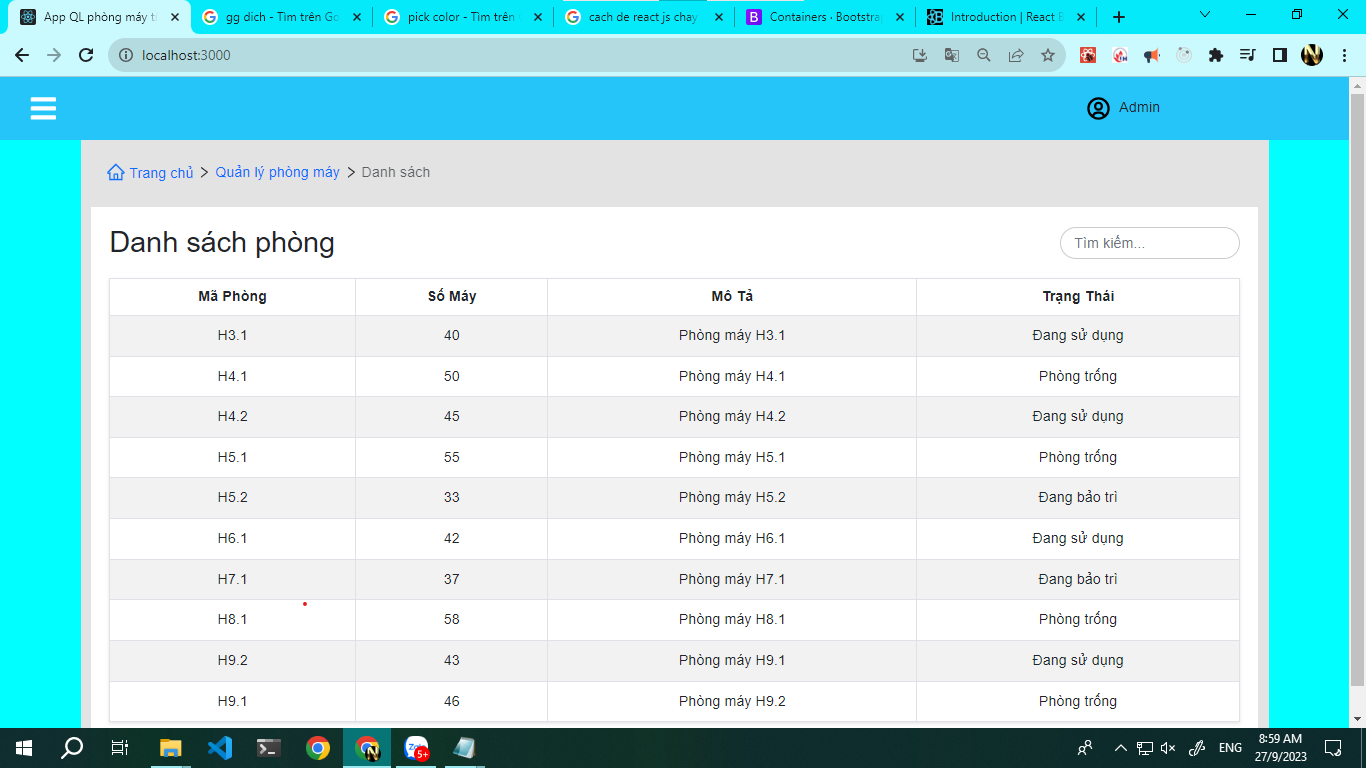
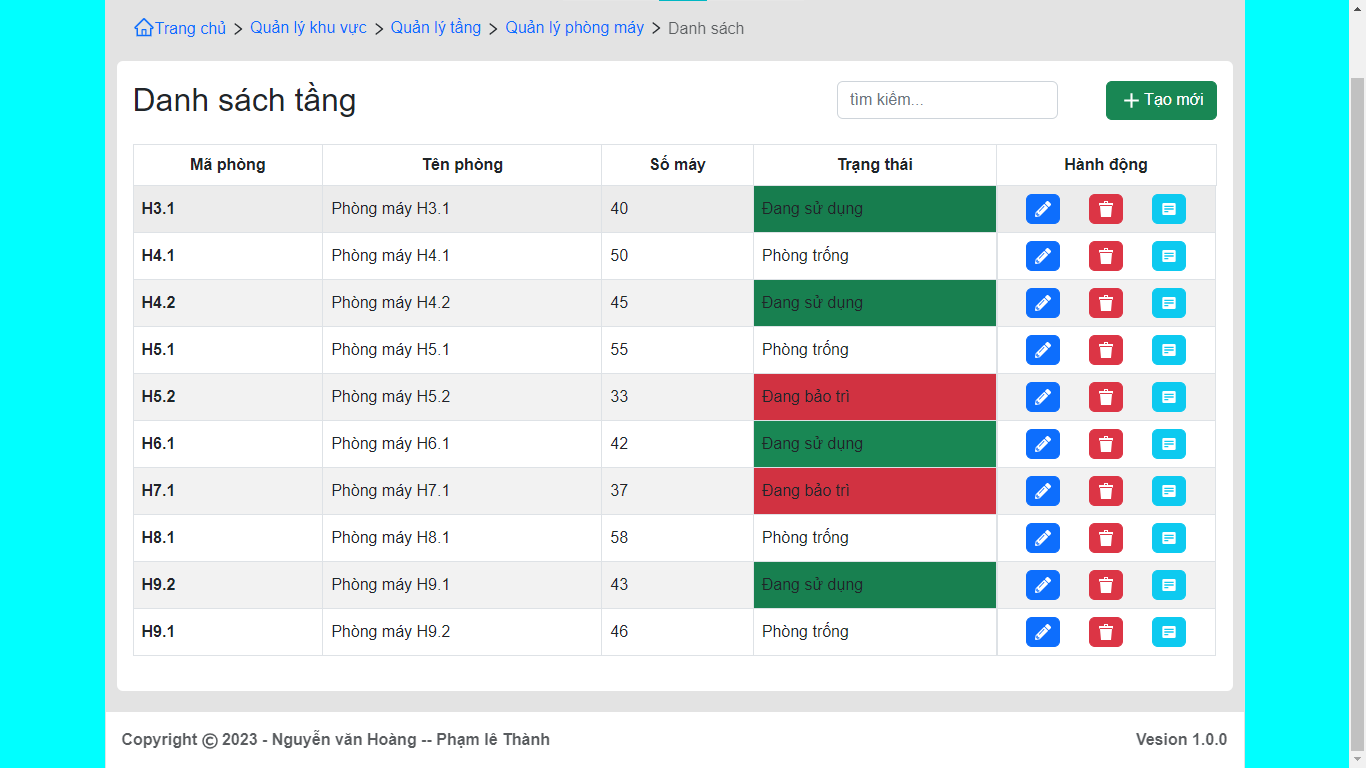
add PageQLPhongMay

diff --git a/src/pages/PageQuanLy/PageQLPhongMay.jsx b/src/pages/PageQuanLy/PageQLPhongMay.jsx
@@ -1,112 +1,200 @@
-import React, { useState } from 'react'
-import PropTypes from 'prop-types'
-import NavTab from '../../components/common/NavTab/NavTab'
-import { Table, Form } from "react-bootstrap";
-import Database from '../../util/database/Database';
+import React, { useEffect, useState } from "react";
+import { NavLink } from "react-router-dom";
+//
+import NavTab from "../../components/common/NavTab/NavTab";
+import Footer from "../../components/common/Footer/Footer";
+import Database from "../../util/database/Database";
+//
+import { FaPencilAlt } from "react-icons/fa";
+import { ImBin2 } from "react-icons/im";
+import { MdAdd } from "react-icons/md";
+import { BiSolidDetail } from "react-icons/bi";
 
 
-   // Dữ liệu danh sách phòng máy (ví dụ)
-const roomData  = Database.dataPhongMay
+
+/**
+ * giả đỉnh data tren server chua lấy về
+ */
+const dataServer = Database.dataPhongMay; 
+/**
+ *lưu trữ data get tu API
+ */
+let dataLocal = [];
+
+const getAllPhongMayApi = () => {
+  dataLocal = [...dataServer];
+};
 
 
-const PageQLPhongMay = props => {
+function PageQLPhongMay() {
 
-  // State để lưu trạng thái của thanh tìm kiếm
-  const [searchText, setSearchText] = useState("");
+  
+  let [arrPhongMay, setArrPhongMay] = useState([]); // lưu trữ data sẽ thay đổi theo txtsearch
+  let [txtSearch, setTxtSearch] = useState("");
 
-  // Hàm xử lý sự kiện thay đổi giá trị của thanh tìm kiếm
+  useEffect(() => {
+    if (dataLocal.length === 0) {
+      getAllPhongMayApi();
+    }
+    filterData();
+  }, [txtSearch]);
+
+  //search
   const handleSearchChange = (event) => {
-    setSearchText(event.target.value);
+    console.log('numberOfMachines -44 ()');
+    setTxtSearch(event.target.value);
   };
-
   // Hàm tìm kiếm dựa trên giá trị của searchText
-  const filteredRoomData = roomData.filter((room) => {
-    const searchTerm = searchText.toLowerCase();
-    return (
-      room.roomCode.toLowerCase().includes(searchTerm) ||
-      room.description.toLowerCase().includes(searchTerm) ||
-      room.status.toLowerCase().includes(searchTerm)
-    );
-  });
+  const filterData = () => {
+    console.log('filterData -49()');
 
- // Mảng quản lý data navtab
- let arrLinkNavTab = [
-  {name: "Quản lý phòng máy", link: ""},
-]
+    const arrNew = dataLocal.filter((item) => {
+      const search = txtSearch.toLowerCase();
+      return (
+        item.roomCode.toLowerCase().includes(search) ||
+        (item.numberOfMachines + "").toLowerCase().includes(search) ||
+        item.description.toLowerCase().includes(search) 
+      );
+    });
+    setArrPhongMay([...arrNew]);
+  };
+  //
+  const renderDataPhongMay = () => {
+    return arrPhongMay.map((item, index) => {
+      return (
+        <tr class="" key={index}>
+          <td scope="row" style={{ fontWeight: 600, justifyItems: "center" }}>
+            {item.roomCode}
+          </td>
+          <td>{item.description}</td>
+          <td>{item.numberOfMachines}</td>
+          {item.status===1 ? <td className="bg-success">Đang sử dụng</td> : item.status===0 ? <td>Phòng trống</td> : <td className="bg-danger">Đang bảo trì</td>}
+          <td style={{ display: "flex", justifyContent: "space-evenly" }}>
+            <NavLink
+              to={"/quan-ly/phong/update"}
+              onClick={() => {
+                alert(`Update -- ${item.id}`);
+                // co the truyển data len redux từ đây rồi sang trang kia lấy về sau
+              }}
+            >
+              <button
+                type="button"
+                class="btn btn-primary mx-2 px-2"
+                style={{ padding: "2px" }}
+              >
+                <FaPencilAlt color="white" size={16} />
+              </button>
+            </NavLink>
+            <button
+              onClick={() => {
+                alert(`Del -- ${item.id}`);
+              }}
+              type="button"
+              className="btn btn-danger mx-2 px-2"
+              style={{ padding: "2px" }}
+            >
+              <ImBin2 color="white" size={16} />
+            </button>
+            <NavLink
+              to={`../quan-ly/phong/detail/${item.id}`}
+              onClick={() => {
+                alert(`Add -- item`);
+              }}
+              type="button"
+              className="btn btn-info mx-2 px-2"
+              style={{ padding: "2px" }}
+            >
+              <BiSolidDetail color="white" size={16} />
+            </NavLink>
+          </td>
+        </tr>
+      );
+    });
+  };
+  //
+  // Mảng quản lý data navtab
+  let arrLinkNavTab = [
+    { name: "Quản lý khu vực", link: "../quan-ly/khu-vuc" },
+    { name: "Quản lý tầng", link: "../quan-ly/tang" },
+    { name: "Quản lý phòng máy", link: "" },
+  ];
+  //
 
   return (
-    <div className="container">
-      {/*  */}
-      <NavTab itemLink={
-        {arrLinkNavTab: arrLinkNavTab, chucNang:'Danh sách'}
-        } />
-
-      {/* Bảng danh sách phòng máy bao quanh bởi một div */}
-      <div style={{ background: "white", padding: "20px" }}>
-        {/* Phần top với tiêu đề và thanh tìm kiếm */}
-        <div
-          style={{
-            display: "flex",
-            justifyContent: "space-between",
-            alignItems: "center",
-            marginBottom: "20px",
-          }}
-        >
-          <h2 style={{ margin: "0" }}>Danh sách phòng</h2>
-          <div style={{ display: "flex", alignItems: "center" }}>
-            <Form.Control
-              type="text"
-              placeholder="Tìm kiếm..."
+    <div className="container " style={{ height: "100vh" }}>
+      <div
+        className="d-flex flex-column justify-content-between "
+        style={{ height: "100vh" }}
+      >
+        <div style={{ height: "80vh" }}>
+          {/*  */}
+          <div style={{ height: "8vh" }}>
+            <NavTab itemLink={{ arrLinkNavTab, chucNang: "Danh sách" }} />
+          </div>
+          {/* table data */}
+          <div className="bg-white rounded p-3" style={{ height: "82vh" }}>
+            {/* Phần top với tiêu đề và thanh tìm kiếm - btn thêm */}
+            <div
               style={{
-                width: "200px",
-                height: "36px",
-                fontSize: "16px",
-                border: "1px solid #ccc",
-                borderRadius: "18px",
-                paddingLeft: "15px",
+                display: "flex",
+                justifyContent: "space-between",
+                alignItems: "center",
+                marginBottom: "20px",
+                height: "6vh"
               }}
-              value={searchText}
-              onChange={handleSearchChange}
-            />
+            >
+              <h2 style={{ margin: "0" }}>Danh sách tầng</h2>
+              {/* input tim kiem */}
+              <div style={{ display: "flex", alignItems: "center" }}>
+                <div>
+                  <input
+                    type="text"
+                    className="form-control"
+                    name
+                    id
+                    placeholder="tìm kiếm..."
+                    value={txtSearch}
+                    onChange={handleSearchChange}
+                  />
+                </div>
+
+                {/* Btn them */}
+                <NavLink
+                  to="/quan-ly/phong/add"
+                  type="button"
+                  className="btn btn-success ms-5 view_center_vertical"
+                >
+                  <MdAdd color="white" size={25} />
+                  Tạo mới
+                </NavLink>
+              </div>
+            </div>
+
+            {/* Bảng danh sách data */}
+            <div class="table-responsive" style={{ height: "69vh" }} >
+              <table class="table bg-white table-hover table-striped table-bordered ">
+                <thead>
+                  <tr>
+                    <th scope="col">Mã phòng</th>
+                    <th scope="col">Tên phòng</th>
+                    <th scope="col">Số máy</th>
+                    <th scope="col">Trạng thái</th>
+                    <th scope="col" style={{width:'220px'}}>Hành động</th>
+                  </tr>
+                </thead>
+                <tbody className="over_flow_auto">
+                  {/*  */}
+                  {renderDataPhongMay()}
+                </tbody>
+              </table>
+            </div>
           </div>
         </div>
-
-        {/* Bảng danh sách phòng máy */}
-        <Table
-          striped
-          bordered
-          hover
-          style={{
-            marginTop: "20px",
-            boxShadow: "0 2px 4px rgba(0, 0, 0, 0.1)",
-          }}
-        >
-          <thead>
-            <tr>
-              <th>Mã Phòng</th>
-              <th>Số Máy</th>
-              <th>Mô Tả</th>
-              <th>Trạng Thái</th>
-            </tr>
-          </thead>
-          <tbody>
-            {filteredRoomData.map((room) => (
-              <tr key={room.id} style={{ backgroundColor: "white" }}>
-                <td style={{ padding: "10px" }}>{room.roomCode}</td>
-                <td style={{ padding: "10px" }}>{room.numberOfMachines}</td>
-                <td style={{ padding: "10px" }}>{room.description}</td>
-                <td style={{ padding: "10px" }}>{room.status}</td>
-              </tr>
-            ))}
-          </tbody>
-        </Table>
+        {/*  */}
+        <Footer />
       </div>
     </div>
   )
-}
-
-PageQLPhongMay.propTypes = {
-
 }
 
 export default PageQLPhongMay

diff --git a/src/util/database/Database.js b/src/util/database/Database.js
@@ -12,76 +12,79 @@ const dataKhuVuc = [
   { id: 4, name: "Tòa nhà D", soTang: 5 },
 ];
 
+/**
+ *  status: 1-"Đang-sử dụng", 0 - "Phòng-trống", -1 - "Đang-bảo trì"
+ */
 const dataPhongMay = [
   {
     id: 1,
     roomCode: "H3.1",
     numberOfMachines: 40,
     description: "Phòng máy H3.1",
-    status: "Đang sử dụng",
+    status: 1,
   },
   {
     id: 2,
     roomCode: "H4.1",
     numberOfMachines: 50,
     description: "Phòng máy H4.1",
-    status: "Phòng trống",
+    status: 0,
   },
   {
     id: 3,
     roomCode: "H4.2",
     numberOfMachines: 45,
     description: "Phòng máy H4.2",
-    status: "Đang sử dụng",
+    status: 1,
   },
   {
     id: 4,
     roomCode: "H5.1",
     numberOfMachines: 55,
     description: "Phòng máy H5.1",
-    status: "Phòng trống",
+    status: 0,
   },
   {
     id: 5,
     roomCode: "H5.2",
     numberOfMachines: 33,
     description: "Phòng máy H5.2",
-    status: "Đang bảo trì",
+    status: -1,
   },
   {
     id: 6,
     roomCode: "H6.1",
     numberOfMachines: 42,
     description: "Phòng máy H6.1",
-    status: "Đang sử dụng",
+    status: 1,
   },
   {
     id: 7,
     roomCode: "H7.1",
     numberOfMachines: 37,
     description: "Phòng máy H7.1",
-    status: "Đang bảo trì",
+    status: -1,
   },
   {
     id: 8,
     roomCode: "H8.1",
     numberOfMachines: 58,
     description: "Phòng máy H8.1",
-    status: "Phòng trống",
+    status: 0,
   },
   {
     id: 9,
     roomCode: "H9.2",
     numberOfMachines: 43,
     description: "Phòng máy H9.1",
-    status: "Đang sử dụng",
+    status: 1,
   },
   {
     id: 10,
     roomCode: "H9.1",
     numberOfMachines: 46,
     description: "Phòng máy H9.2",
-    status: "Phòng trống",
+    status: 0,
   },
 ];
 

diff --git a/src/pages/PageQuanLy/PageQLTang.jsx b/src/pages/PageQuanLy/PageQLTang.jsx
@@ -25,6 +25,7 @@ const getAllTangApi = () => {
 };
 
 const PageQLTang = (props) => {
+  
   let [arrTang, setArrTang] = useState([]); // lưu trữ data sẽ thay đổi theo txtsearch
   let [txtSearch, setTxtSearch] = useState("");
 

diff --git a/README.md b/README.md
@@ -19,3 +19,4 @@
     - can lay va chuyen data qu cac man hinh - z
     - overFlow -z 
     - tìm kiếm  detailKhuVuc chưa có gì
+    - PageQLPhongMay - can 1 search theo status
